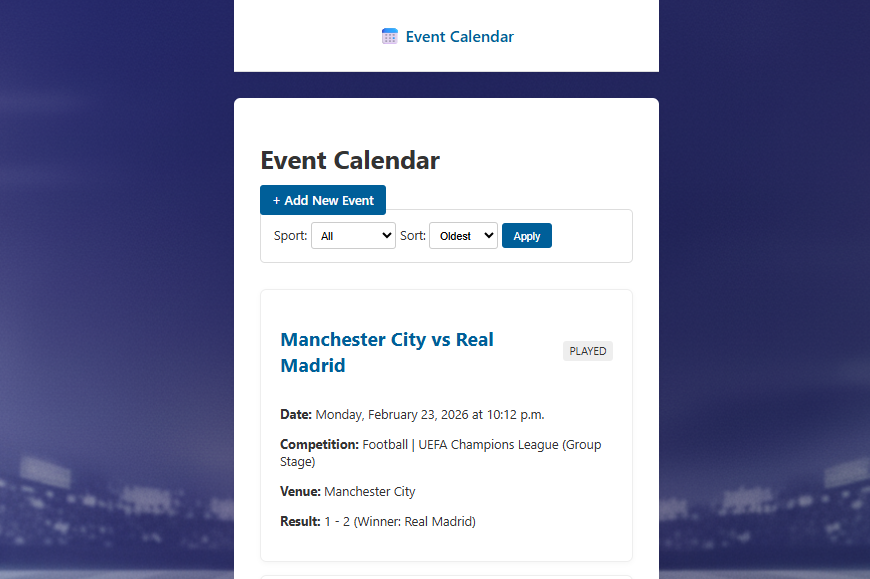
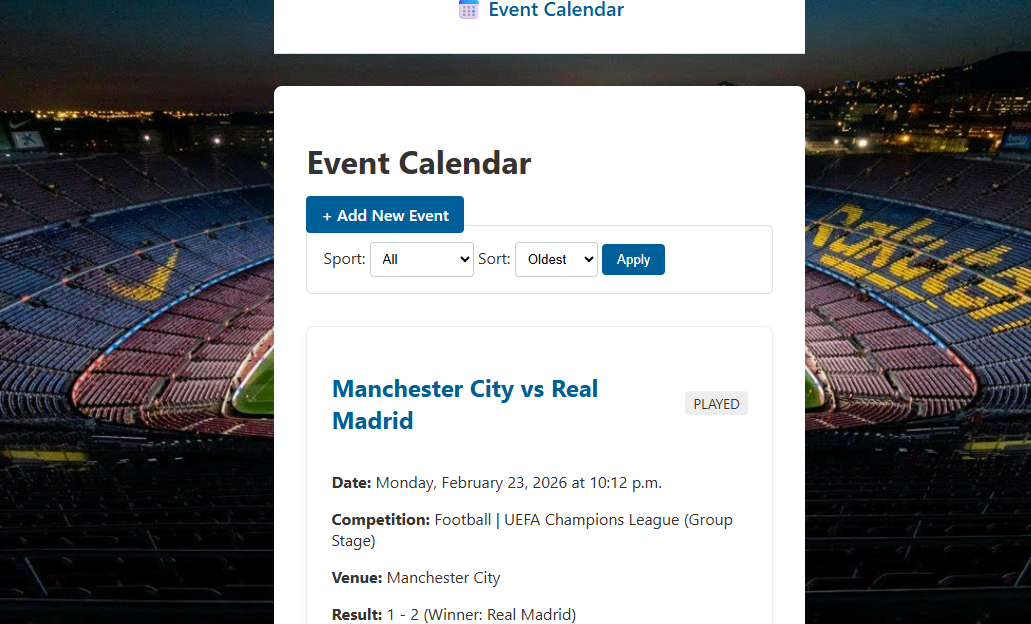
chore: update project background image

diff --git a/README.md b/README.md
@@ -23,7 +23,7 @@ This project is a complete backend solution for a sports event calendar, built a
 ## 💻 Technology Stack
 
 * **Python 3.11+**
-* **Django 5.x**
+* **Django 5**
 * **Database:** SQLite3 (for development)
 * **Frontend:** Standard Django Templates (HTML/CSS)
 
